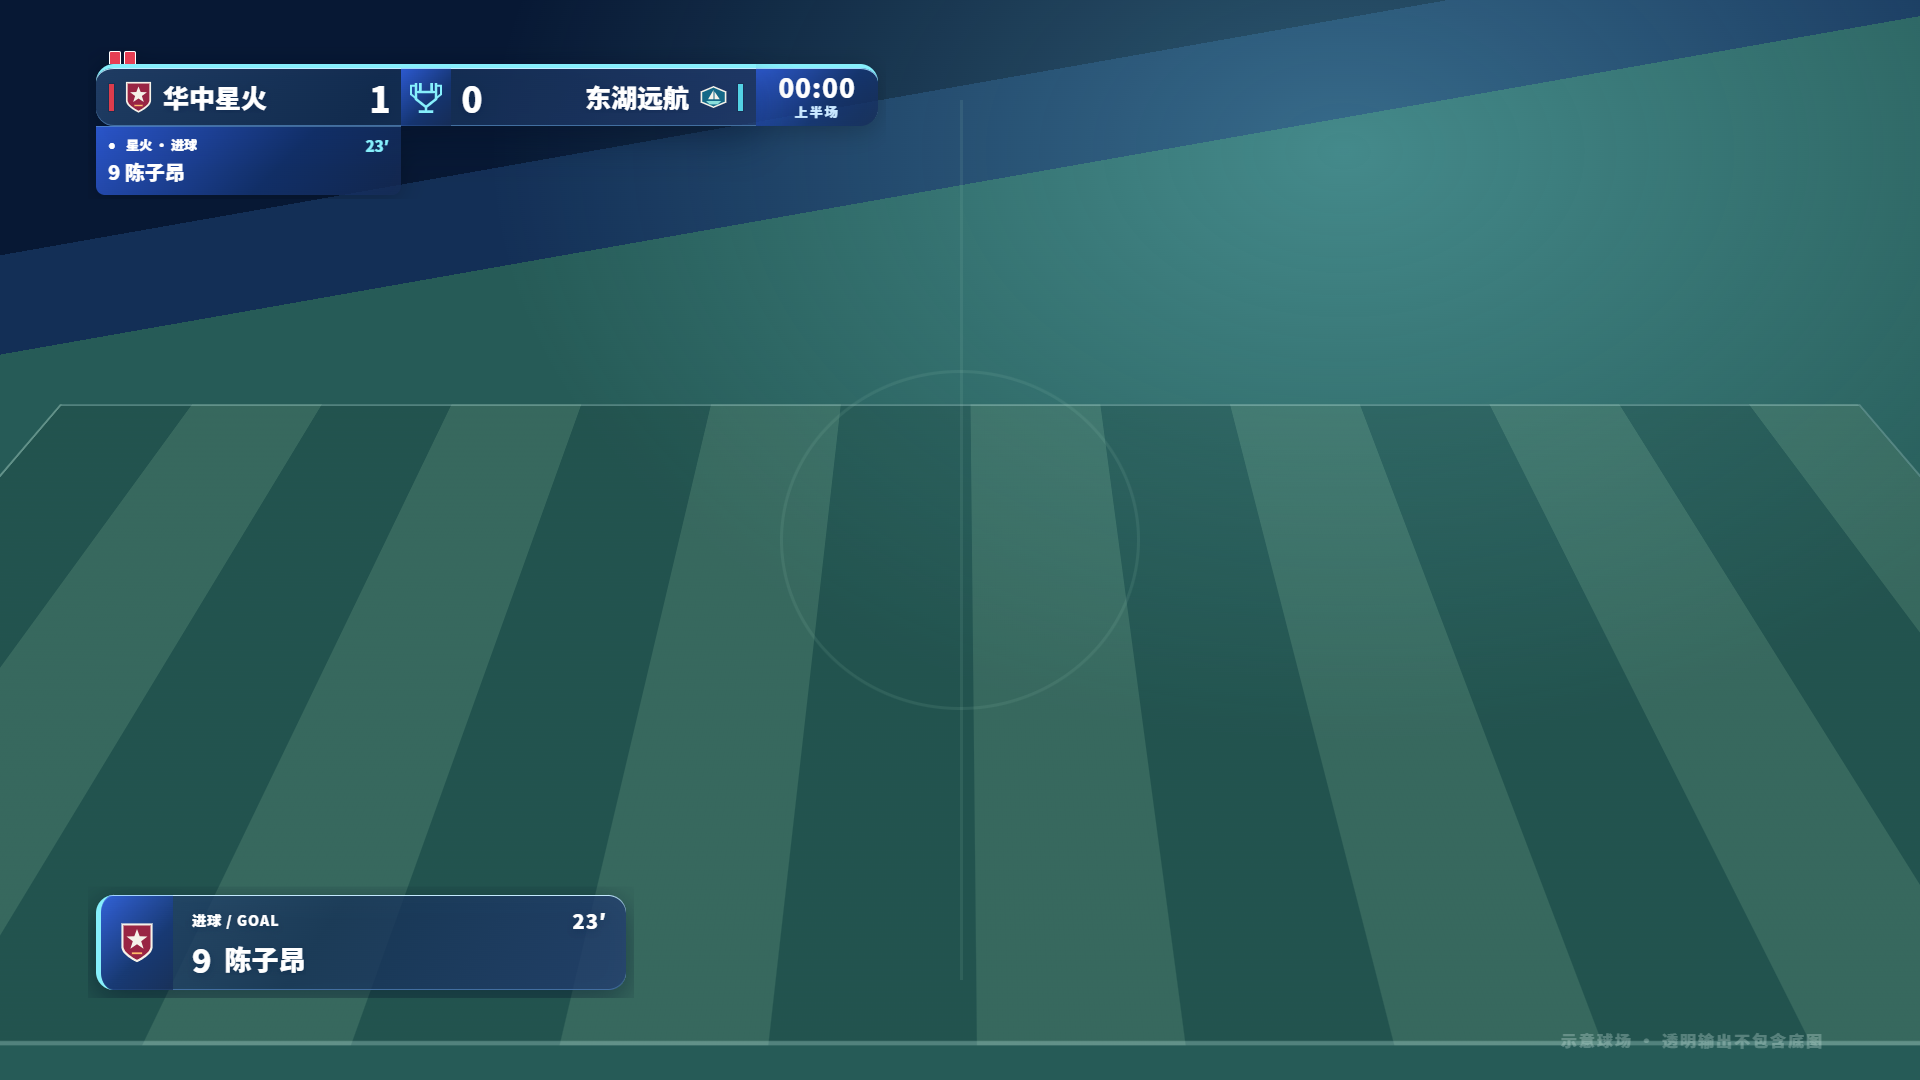
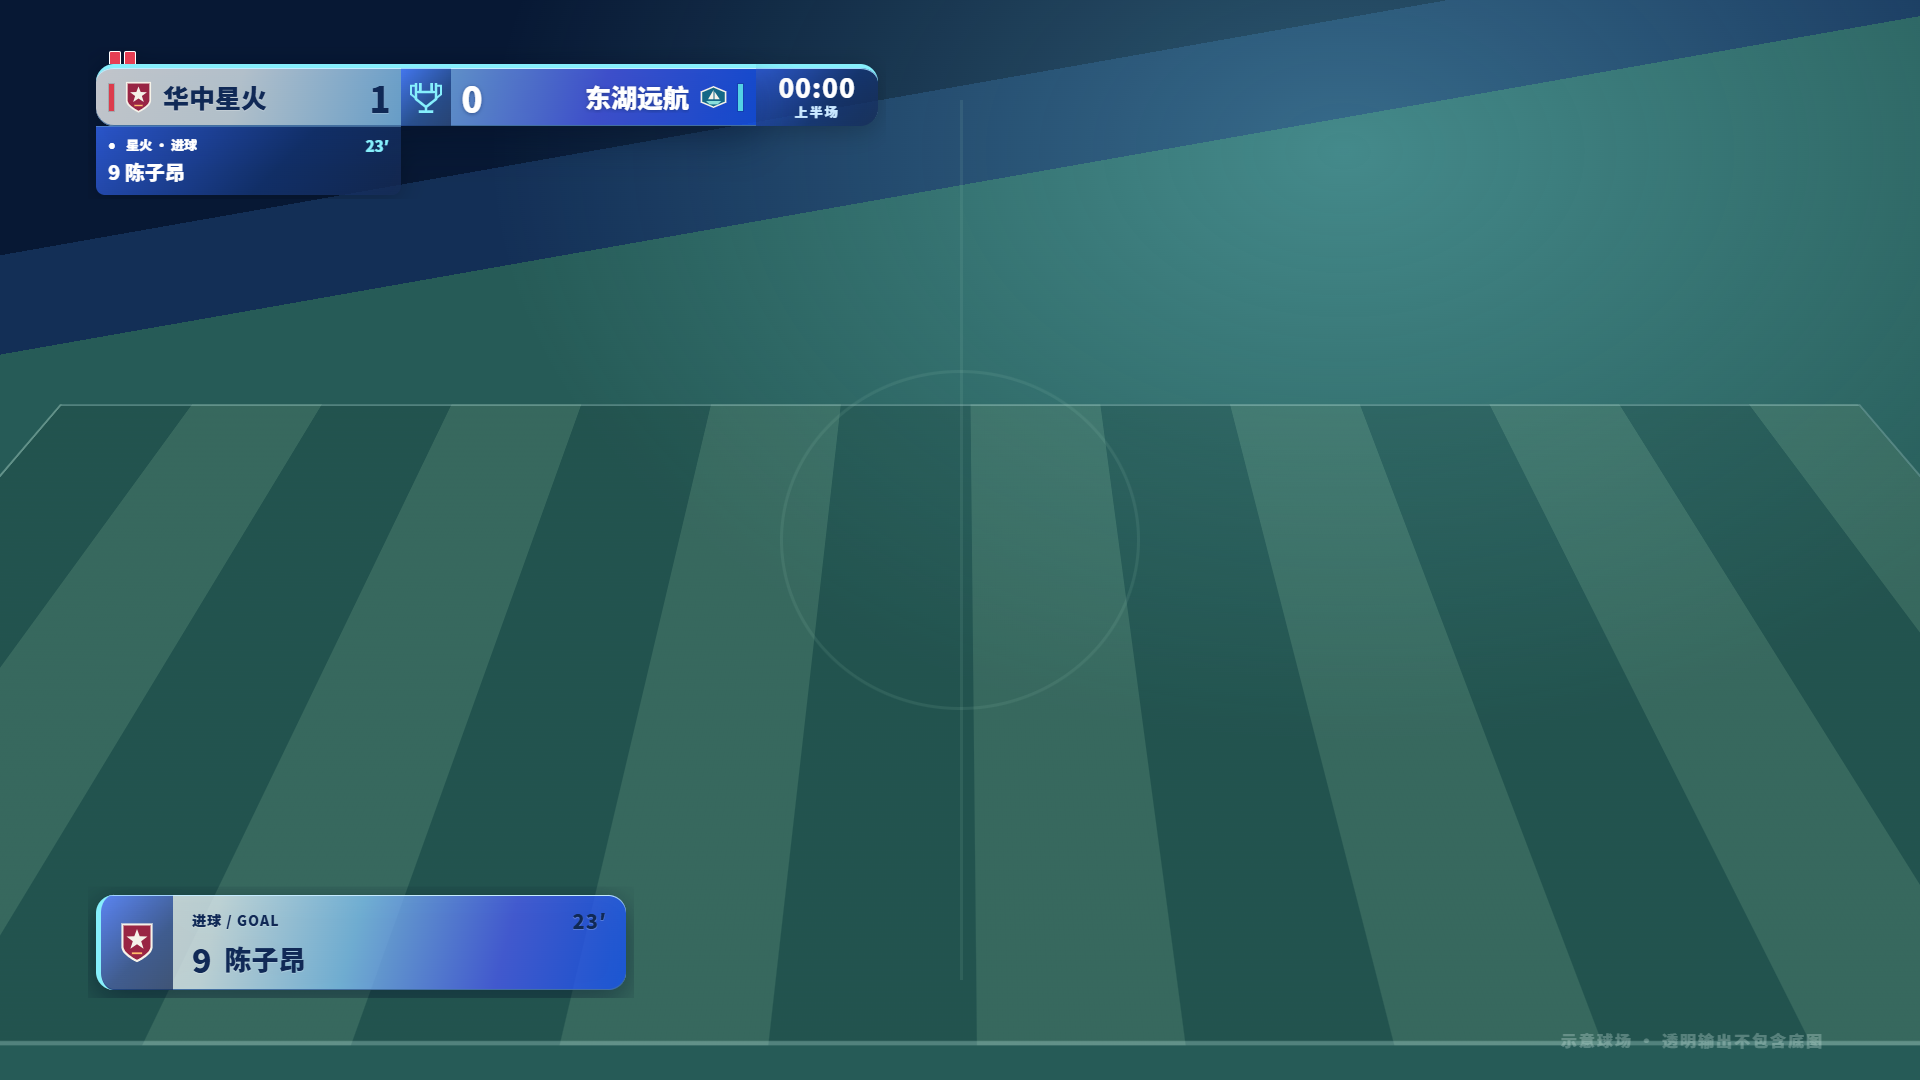
Make material study explicitly white-to-blue with capped background transparency

Changed region(s): [[0.0312, 0.825, 0.3438, 0.9167], [0.0312, 0.0611, 0.4062, 0.1222]]

diff --git a/public/material-preview.html b/public/material-preview.html
@@ -1,5 +1,5 @@
 <!doctype html><html lang="zh-CN"><head><meta charset="utf-8"><meta name="viewport" content="width=device-width,initial-scale=1"><title>HUST CUP · 渐变亚克力材质设计预览</title><link rel="stylesheet" href="material-preview.css"></head><body>
-<header><div><small>HUST CUP / MATERIAL STUDY 01</small><h1>渐变亚克力 · 材质提案</h1><p>保留现有蓝色体系和版式，底色至少保留70%，以蓝色渐变、细边高光与柔和阴影调整质感。</p></div><a href="/">返回控制台 ↗</a></header>
+<header><div><small>HUST CUP / MATERIAL STUDY 01</small><h1>渐变亚克力 · 材质提案</h1><p>保留现有蓝色体系和版式，底色至少保留70%，以白色到蓝色渐变、细边高光与柔和阴影调整质感。</p></div><a href="/">返回控制台 ↗</a></header>
 <nav aria-label="材质预览设置"><label>视觉主题<select id="theme"><option value="pulse">PULSE 几何竞技</option><option value="nocturne">NOCTURNE 蓝夜杯赛</option></select></label><label>边角<select id="corners"><option value="round">圆角</option><option value="square">方角</option></select></label><label>画面<select id="scene"><option value="goal">进球 + 常驻比分</option><option value="bottomScore">底部比分 + 进球记录</option><option value="entrance">入场对阵条</option><option value="shootoutCompact">点球大战简版</option><option value="officials">裁判团队</option></select></label><label>预览尺度<select id="detail"><option value="full">完整画面</option><option value="detail">材质近看</option></select></label><label>底图透出 <output id="transparency-value">25%</output><input id="transparency" type="range" min="0" max="30" value="25" aria-label="底图透出比例，最高30%"></label><button id="replay">重播展开动画</button></nav>
-<main><section><div class="caption"><b>01 / 当前实色材质</b><span>清晰、紧凑、高对比</span></div><div class="window"><iframe id="solid" title="当前实色材质预览"></iframe></div></section><section><div class="caption"><b>02 / 渐变亚克力提案</b><span>轻微透底、蓝色渐变、细边高光</span></div><div class="window"><iframe id="glass" title="渐变亚克力材质独立预览"></iframe></div></section></main>
-<footer><strong>仅设计预览，不改比赛、不改实播。</strong><p>两张画面使用相同草稿资料。右侧背景最多透出30%底图（底色至少70%不透明）；文字和标志保持清晰。材质由渐变、高光和阴影呈现，无需模糊滤镜。新材质尚未设为正式主题。</p></footer><script type="module" src="material-preview.js"></script></body></html>
+<main><section><div class="caption"><b>01 / 当前实色材质</b><span>清晰、紧凑、高对比</span></div><div class="window"><iframe id="solid" title="当前实色材质预览"></iframe></div></section><section><div class="caption"><b>02 / 渐变亚克力提案</b><span>白色 → 浅蓝 → 蓝色 · 最多透出30%</span></div><div class="window"><iframe id="glass" title="渐变亚克力材质独立预览"></iframe></div></section></main>
+<footer><strong>仅设计预览，不改比赛、不改实播。</strong><p>两张画面使用相同草稿资料。右侧背景最多透出30%底图（底色至少70%不透明）；文字和标志保持清晰。材质由白色到蓝色渐变、高光和阴影呈现，无需模糊滤镜。新材质尚未设为正式主题。</p></footer><script type="module" src="material-preview.js"></script></body></html>

diff --git a/public/surfaces.css b/public/surfaces.css
@@ -19,11 +19,16 @@ body[data-corners] button,body[data-corners] input,body[data-corners] select,bod
 .corner-setting{display:flex;gap:20px;align-items:center;margin-top:18px}.corner-setting select{min-width:180px;padding:10px}.material-preview-link{display:inline-block;margin-top:8px;color:#85c9fc}
 
 /* Tinted acrylic proposal only. Never enabled by mode=live. */
-.acrylic-prototype{--material-alpha:.75;--acrylic:linear-gradient(125deg,rgb(39 73 117 / var(--material-alpha)),rgb(22 51 91 / var(--material-alpha)) 42%,rgb(35 62 116 / var(--material-alpha)));--acrylic-dark:linear-gradient(135deg,rgb(54 105 252 / var(--material-alpha)),rgb(21 55 122 / var(--material-alpha)) 60%,rgb(22 44 87 / var(--material-alpha)))}
-.acrylic-prototype .score-row,.acrylic-prototype .mini-event,.acrylic-prototype .info-content,.acrylic-prototype .bottom-goals,.acrylic-prototype .compact-pk,.acrylic-prototype .referee-panel,.acrylic-prototype .shootout{background:var(--acrylic);color:#fff;box-shadow:inset 0 1px 0 #c5ecff,inset 0 -1px 0 #426fa0,0 12px 36px #04183d55;text-shadow:0 2px 8px #04183d55}
+.acrylic-prototype{--material-alpha:.75;--acrylic:linear-gradient(105deg,rgb(255 255 255 / var(--material-alpha)) 0%,rgb(234 248 255 / var(--material-alpha)) 22%,rgb(133 201 252 / var(--material-alpha)) 48%,rgb(78 96 252 / var(--material-alpha)) 76%,rgb(19 85 252 / var(--material-alpha)) 100%);--acrylic-dark:linear-gradient(135deg,rgb(54 105 252 / var(--material-alpha)),rgb(21 55 122 / var(--material-alpha)) 60%,rgb(22 44 87 / var(--material-alpha)))}
+.acrylic-prototype .score-row,.acrylic-prototype .mini-event,.acrylic-prototype .info-content,.acrylic-prototype .bottom-goals,.acrylic-prototype .compact-pk,.acrylic-prototype .referee-panel,.acrylic-prototype .shootout{background:var(--acrylic);color:#102956;box-shadow:inset 0 1px 0 #c5ecff,inset 0 -1px 0 #426fa0,0 12px 36px #04183d55;text-shadow:0 1px 0 #ffffff35}
 .acrylic-prototype .score-logo,.acrylic-prototype .slim-clock,.acrylic-prototype .info-label,.acrylic-prototype .bottom-context,.acrylic-prototype .mini-badge,.acrylic-prototype .entrance-bar>div:first-child,.acrylic-prototype .entrance-bar>small{background:var(--acrylic-dark);color:#fff;box-shadow:inset 0 1px 0 #a3d5ff}
 .acrylic-prototype .mini-content{background:transparent}
 .acrylic-prototype .mini-content small,.acrylic-prototype .info-content small{color:#bcefff}
 .acrylic-prototype .team-event-extension{background:var(--acrylic-dark);color:#fff}
 .stadium-prototype .sample-field{background:radial-gradient(ellipse at 70% 14%,#86effc50,transparent 45%),linear-gradient(170deg,#071834 0 18%,#132f56 18% 25%,#265b57 25% 100%)}
 .stadium-prototype .sample-field:before{inset:300px -150px 80px;border-color:#d6ffff45;transform:perspective(750px) rotateX(30deg);background:repeating-linear-gradient(90deg,#173c3644 0 160px,#658c7044 160px 320px)}
+
+/* Explicit white-to-blue gradient: dark copy on the pale side, white on the blue side. */
+.acrylic-prototype .score-team.away,.acrylic-prototype .score-value[data-side="away"],.acrylic-prototype .scorers:last-child{color:#fff;text-shadow:0 1px 4px #10295688}
+.acrylic-prototype .scorers:first-child b{color:#1355fc}.acrylic-prototype .scorers:last-child b{color:#fff}
+.acrylic-prototype .mini-content small,.acrylic-prototype .info-content small{color:#102956}

diff --git a/docs/v1.5边角与材质说明.md b/docs/v1.5边角与材质说明.md
@@ -4,7 +4,7 @@
 2. 后台立即更新。包装草稿可在预览模块中检查；“实播”监看保持已发布样式。
 3. 点击“更新直播资料”才将边角应用到OBS；不重复事件或改动比分。导出项目包含边角配置。
 4. 点击“渐变亚克力材质示意”打开只读页面，可选择两主题、方/圆角、五类画面、完整/近看、重播。
-5. 按最终确认：底图透出比例0–30%，材质底色至少70%（默认75%），文字与标志保持清晰，蓝色渐变、细边高光与阴影。提案未成为正式主题，实播即使加concept参数也不会采用。
+5. 按最终确认：底图透出比例0–30%，材质底色至少70%（默认75%），文字与标志保持清晰，白色到蓝色渐变、细边高光与阴影。提案未成为正式主题，实播即使加concept参数也不会采用。
 6. 对称包装主体保持高度，从中间左右展开330ms，停顿330ms，然后上下延伸440ms；退出反向执行三段各300ms。紧急清屏立即清空。
 7. 下载新版本后保留runtime（比赛与上传素材），停止旧服务再启动，刷新后台与OBS浏览器源。恢复存档后计时暂停，按提示核对是否补计离线时间，再点击计时“应用”继续；不要用演示数据覆盖真实比赛。
 
